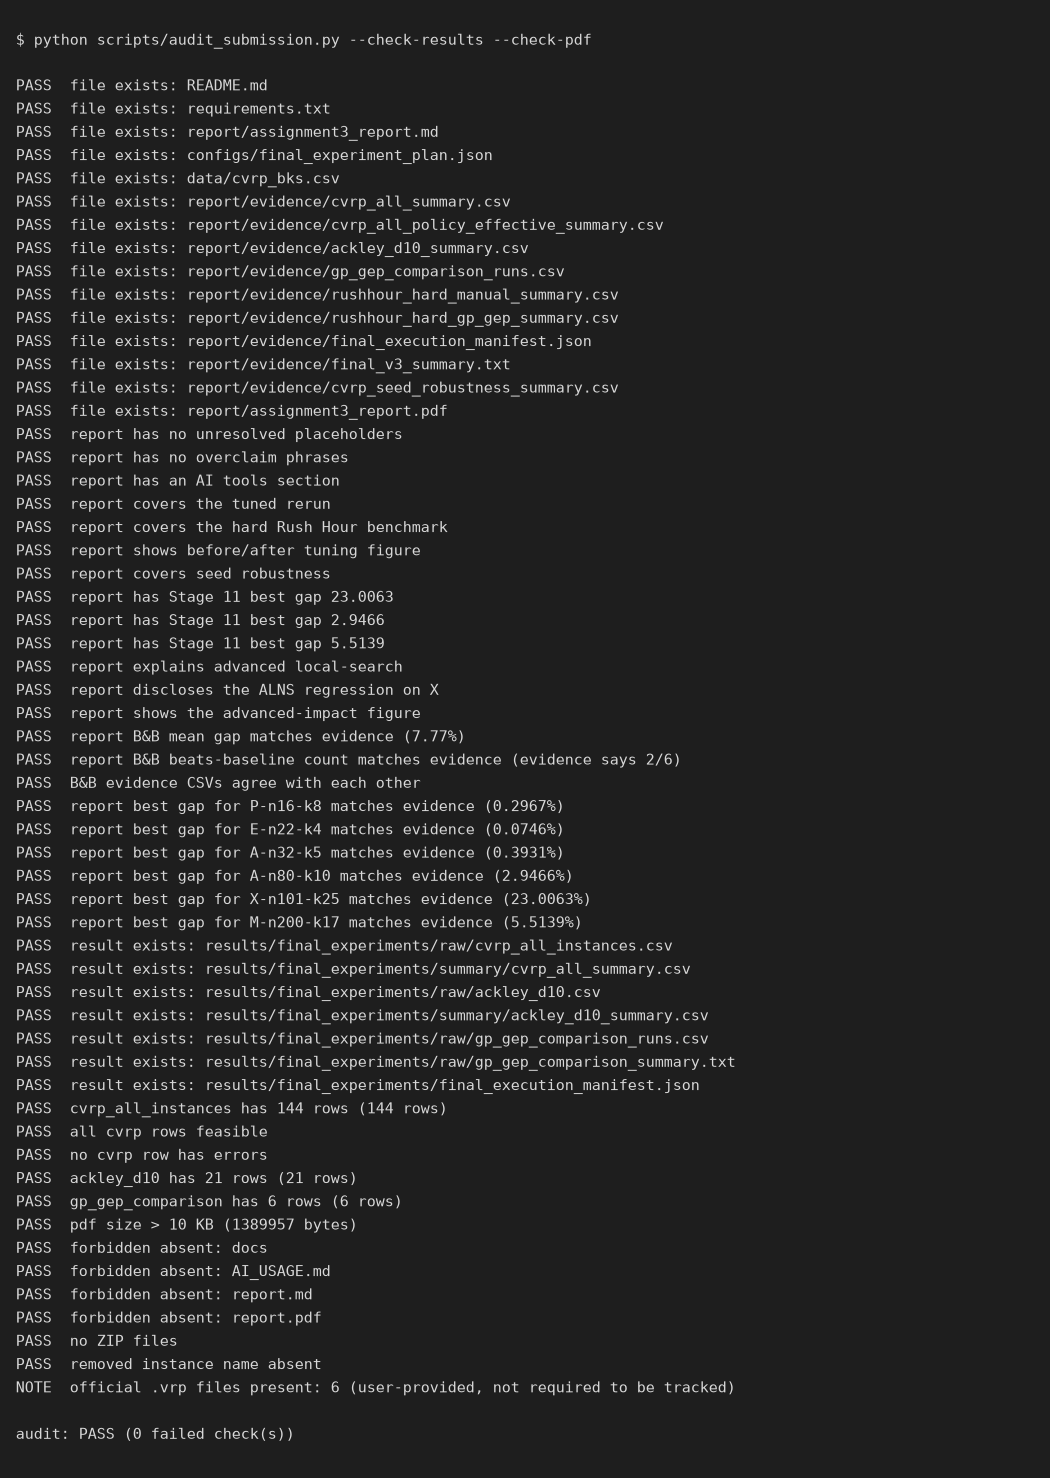
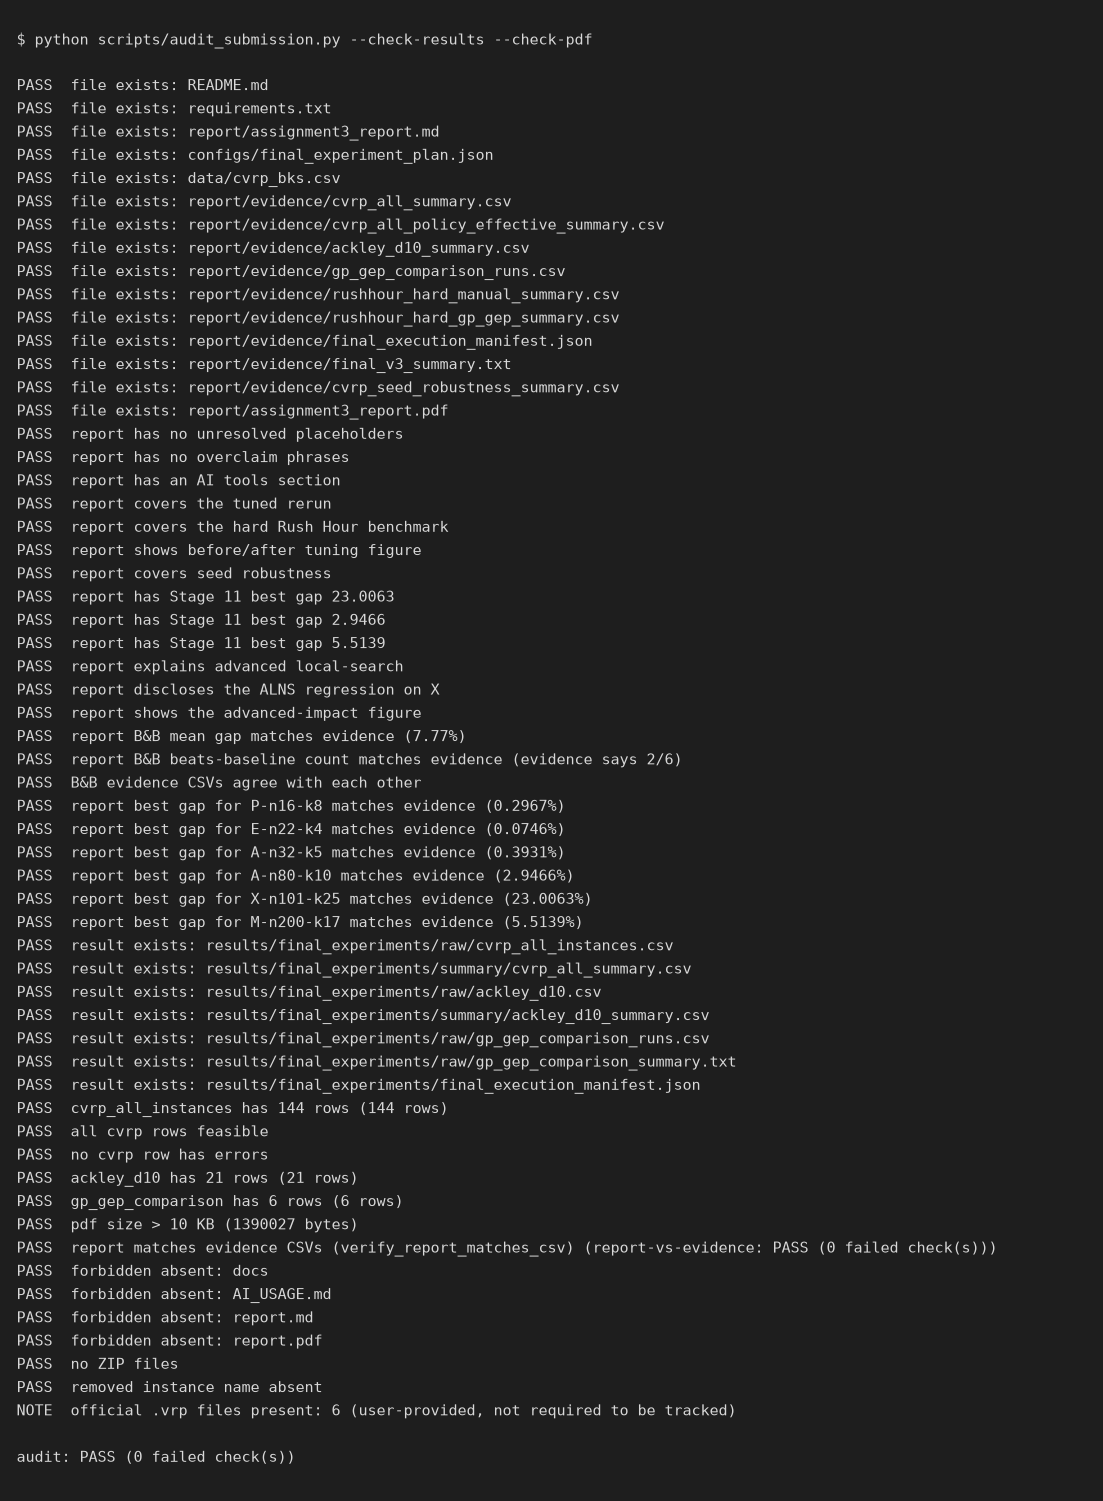
Enforce report and evidence consistency

diff --git a/scripts/verify_report_matches_csv.py b/scripts/verify_report_matches_csv.py
@@ -1,0 +1,105 @@
+"""Strict gate: the report's CVRP headline claims must match the committed
+evidence CSVs exactly (tolerance 0.01 on printed percentages).
+
+Checks, all against report/evidence/:
+1. Per-instance headline best gaps in the report equal the minimum
+   best_gap_percent in cvrp_all_policy_effective_summary.csv (canonical
+   3-seed final run) and agree with cvrp_algorithm_mean_gaps.csv.
+2. Per-algorithm mean gaps in the report equal cvrp_algorithm_mean_gaps.csv.
+3. B&B/LDS: 2-decimal mean and the beats-baseline count in the report match
+   the evidence.
+4. Seed policy: the canonical evidence must contain exactly seeds 42/43/44,
+   the report must declare them, and any 8-seed mention must stay inside a
+   labeled robustness context (the report must carry the canonical-source
+   sentence).
+
+Exit code 0 when consistent, 1 with a message per failure otherwise.
+
+Usage:
+    .venv/bin/python scripts/verify_report_matches_csv.py
+"""
+
+import csv
+import sys
+from pathlib import Path
+
+REPO_ROOT = Path(__file__).resolve().parents[1]
+EVIDENCE = REPO_ROOT / "report" / "evidence"
+REPORT = REPO_ROOT / "report" / "assignment3_report.md"
+INSTANCES = ["P-n16-k8", "E-n22-k4", "A-n32-k5", "A-n80-k10",
+             "X-n101-k25", "M-n200-k17"]
+TOLERANCE = 0.01
+
+
+def read_rows(path):
+    with open(path, newline="") as f:
+        return list(csv.DictReader(f))
+
+
+def number_in_text(text, value, decimals=(4, 2)):
+    """True if the value appears in the text at any of the given precisions."""
+    return any(f"{value:.{d}f}" in text for d in decimals)
+
+
+def main():
+    failures = []
+
+    def check(name, ok, detail=""):
+        print(f"{'PASS' if ok else 'FAIL'}  {name}"
+              + (f" ({detail})" if detail else ""))
+        if not ok:
+            failures.append(name)
+
+    text = REPORT.read_text()
+    summary = read_rows(EVIDENCE / "cvrp_all_summary.csv")
+    effective = read_rows(EVIDENCE / "cvrp_all_policy_effective_summary.csv")
+    mean_gaps = read_rows(EVIDENCE / "cvrp_algorithm_mean_gaps.csv")
+    by_algo = {r["algorithm"]: r for r in mean_gaps}
+
+    # 1. headline best gap per instance
+    for inst in INSTANCES:
+        best_eff = min(float(r["best_gap_percent"]) for r in effective
+                       if r["instance"] == inst)
+        best_mg = min(float(r[inst]) for r in mean_gaps)
+        check(f"evidence CSVs agree on best gap for {inst}",
+              abs(best_eff - best_mg) <= TOLERANCE,
+              f"effective {best_eff:.4f} vs mean_gaps {best_mg:.4f}")
+        check(f"report states best gap for {inst}",
+              number_in_text(text, best_eff), f"{best_eff:.4f}")
+
+    # 2. per-algorithm mean gaps
+    for row in mean_gaps:
+        mean = float(row["mean_best_gap_percent"])
+        check(f"report states mean gap for {row['algorithm']}",
+              number_in_text(text, mean, decimals=(3, 2)), f"{mean:.3f}")
+
+    # 3. B&B/LDS specifics
+    bnb, base = by_algo["cvrp_bnb_lds"], by_algo["baseline"]
+    bnb_mean = sum(float(bnb[i]) for i in INSTANCES) / len(INSTANCES)
+    check("report states B&B 2-decimal mean",
+          f"{bnb_mean:.2f}%" in text, f"{bnb_mean:.2f}%")
+    beats = sum(1 for i in INSTANCES
+                if float(bnb[i]) < float(base[i]) - 1e-9)
+    check("report states B&B beats-baseline count",
+          f"{beats}/6" in text, f"{beats}/6")
+
+    # 4. seed policy: canonical evidence is exactly seeds 42-44 and the
+    # report declares the canonical 3-seed source
+    seeds = {r["best_seed"] for r in summary if r.get("best_seed")}
+    check("canonical evidence uses only seeds 42/43/44",
+          seeds <= {"42", "43", "44"}, ",".join(sorted(seeds)))
+    check("report declares seeds 42, 43 and 44",
+          "seeds 42, 43 and 44" in text)
+    check("report declares the canonical 3-seed source for headline tables",
+          "canonical source of every headline table" in text)
+    if "42–49" in text or "42-49" in text:
+        check("8-seed mentions are labeled as robustness",
+              "robustness" in text and "not the source of any" in text)
+
+    print(f"\nreport-vs-evidence: {'PASS' if not failures else 'FAIL'} "
+          f"({len(failures)} failed check(s))")
+    return 0 if not failures else 1
+
+
+if __name__ == "__main__":
+    sys.exit(main())

diff --git a/tests/test_report_csv_consistency.py b/tests/test_report_csv_consistency.py
@@ -1,0 +1,71 @@
+"""Stage 11-F: the report's CVRP claims must be backed by the committed
+evidence CSVs, enforced by scripts/verify_report_matches_csv.py."""
+
+import csv
+import subprocess
+import sys
+from pathlib import Path
+
+REPO_ROOT = Path(__file__).resolve().parents[1]
+SCRIPT = REPO_ROOT / "scripts" / "verify_report_matches_csv.py"
+EVIDENCE = REPO_ROOT / "report" / "evidence"
+REPORT = REPO_ROOT / "report" / "assignment3_report.md"
+INSTANCES = ["P-n16-k8", "E-n22-k4", "A-n32-k5", "A-n80-k10",
+             "X-n101-k25", "M-n200-k17"]
+
+
+def read_rows(name):
+    with open(EVIDENCE / name, newline="") as f:
+        return list(csv.DictReader(f))
+
+
+def test_verifier_exists():
+    assert SCRIPT.exists()
+
+
+def test_verifier_passes_on_current_repo():
+    result = subprocess.run([sys.executable, str(SCRIPT)],
+                            capture_output=True, text=True, cwd=REPO_ROOT)
+    assert result.returncode == 0, result.stdout + result.stderr
+
+
+def test_headline_best_gaps_supported_by_summary_csv():
+    text = REPORT.read_text()
+    rows = read_rows("cvrp_all_policy_effective_summary.csv")
+    for inst in INSTANCES:
+        best = min(float(r["best_gap_percent"]) for r in rows
+                   if r["instance"] == inst)
+        assert f"{best:.4f}" in text or f"{best:.2f}" in text, \
+            f"{inst}: {best:.4f} not stated in report"
+
+
+def test_mean_gaps_supported_by_mean_gaps_csv():
+    text = REPORT.read_text()
+    for row in read_rows("cvrp_algorithm_mean_gaps.csv"):
+        mean = float(row["mean_best_gap_percent"])
+        assert f"{mean:.3f}" in text or f"{mean:.2f}" in text, \
+            f"{row['algorithm']}: {mean:.3f} not stated in report"
+
+
+def test_seed_source_statement_not_contradictory():
+    text = REPORT.read_text()
+    # canonical 3-seed statement present
+    assert "seeds 42, 43 and 44" in text
+    assert "canonical source of every headline table" in text
+    # canonical evidence really is 3-seed
+    seeds = {r["best_seed"] for r in read_rows("cvrp_all_summary.csv")
+             if r.get("best_seed")}
+    assert seeds <= {"42", "43", "44"}, seeds
+    # any 8-seed mention stays in the labeled robustness context
+    if "42–49" in text or "42-49" in text:
+        assert "robustness" in text and "not the source of any" in text
+
+
+def test_bnb_consistency_still_enforced():
+    text = REPORT.read_text()
+    by_algo = {r["algorithm"]: r for r in read_rows("cvrp_algorithm_mean_gaps.csv")}
+    bnb, base = by_algo["cvrp_bnb_lds"], by_algo["baseline"]
+    mean = sum(float(bnb[i]) for i in INSTANCES) / len(INSTANCES)
+    beats = sum(1 for i in INSTANCES if float(bnb[i]) < float(base[i]) - 1e-9)
+    assert f"{mean:.2f}%" in text
+    assert f"{beats}/6" in text

diff --git a/scripts/audit_submission.py b/scripts/audit_submission.py
@@ -181,6 +181,15 @@ def main():
             check("pdf size > 10 KB", pdf_path.stat().st_size > 10_000,
                   f"{pdf_path.stat().st_size} bytes")
 
+    # report-vs-evidence consistency gate (Stage 11-F)
+    import subprocess
+    gate = subprocess.run(
+        [sys.executable, str(REPO_ROOT / "scripts" / "verify_report_matches_csv.py")],
+        capture_output=True, text=True, cwd=REPO_ROOT)
+    check("report matches evidence CSVs (verify_report_matches_csv)",
+          gate.returncode == 0,
+          gate.stdout.strip().splitlines()[-1] if gate.stdout else "no output")
+
     # forbidden root-level files/dirs
     for name in FORBIDDEN:
         check(f"forbidden absent: {name}", not (REPO_ROOT / name).exists())

diff --git a/report/assignment3_report.md b/report/assignment3_report.md
@@ -21,7 +21,11 @@ both Genetic Programming (GP) and Gene Expression Programming (GEP), where
 every candidate heuristic is judged by actually running A* with it.
 
 All stochastic runs use the fixed seeds 42, 43 and 44 from the final
-experiment plan, so every number below is reproducible.
+experiment plan, so every number below is reproducible. This 3-seed final
+run is the canonical source of every headline table in this report; the
+only 8-seed numbers are in the separate robustness study (Section 4.3,
+seeds 42–49), which is labeled as such and is not the source of any
+headline value.
 
 The final version of the project contains four layers on top of the first
 complete run: a controlled tuning pass (validated on all six instances